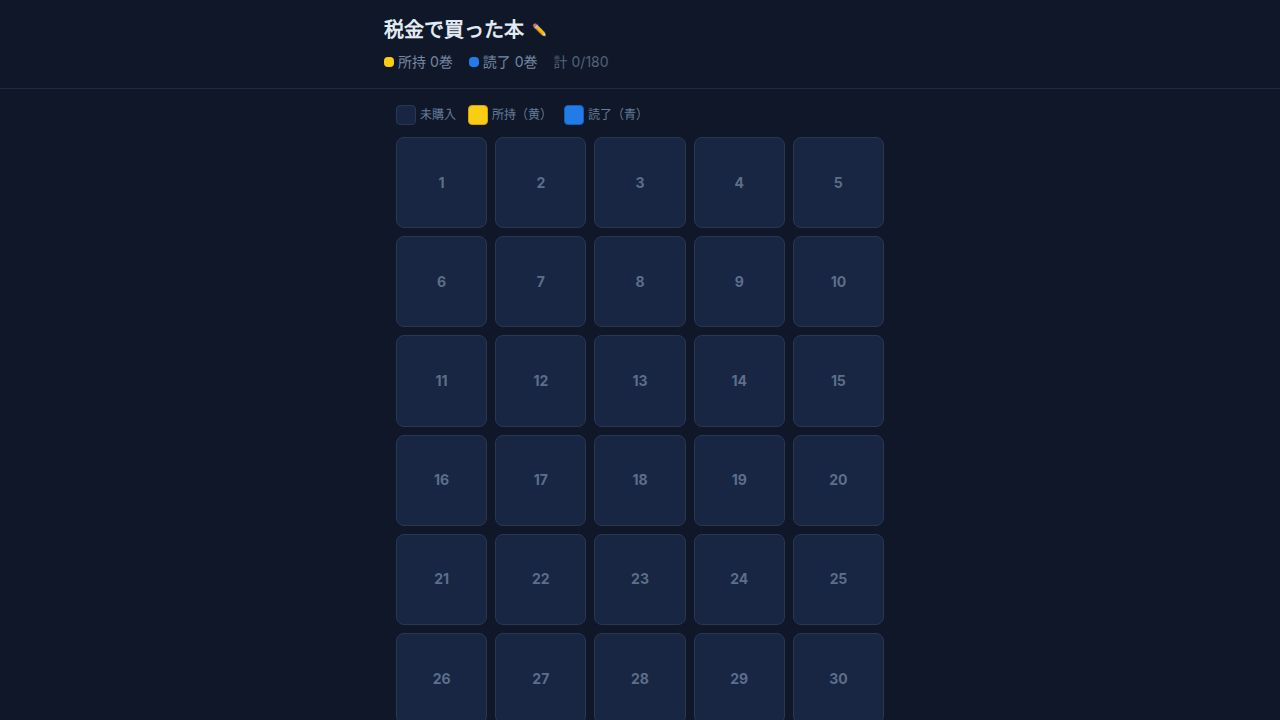
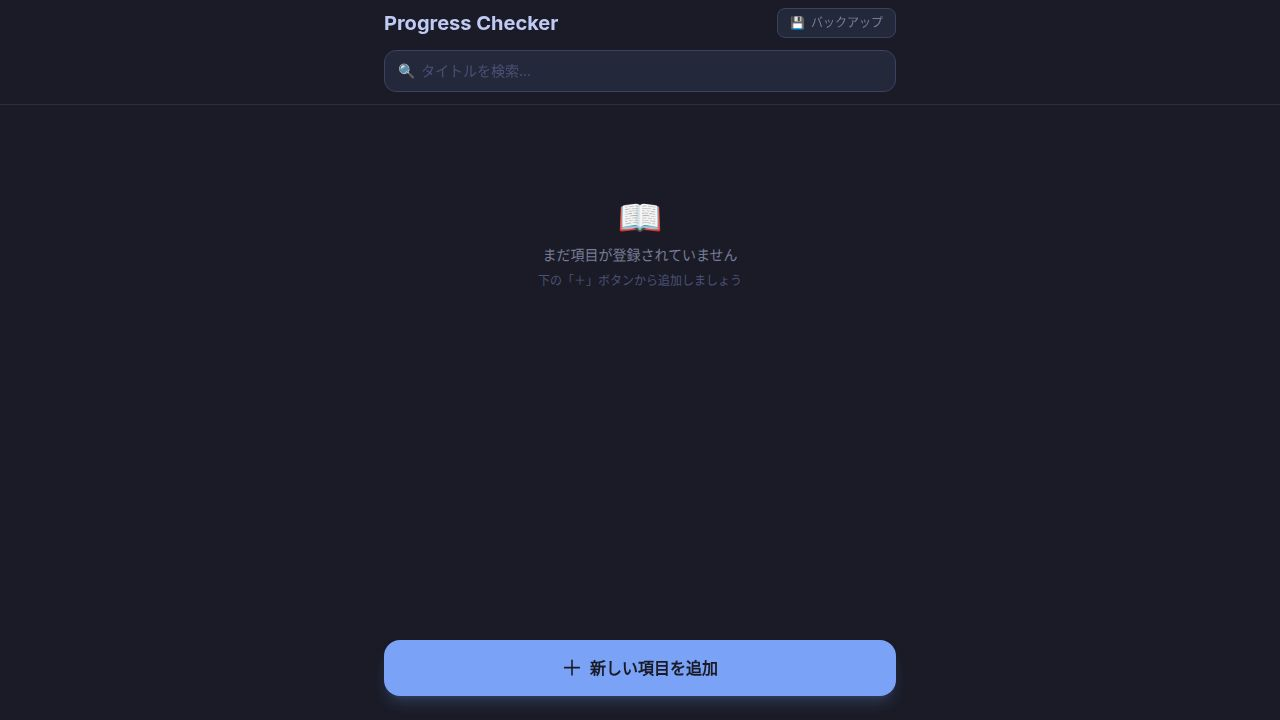
Update manga tracker to simplify status and add range selection
Refactor manga tracking application to simplify volume status to "unread" and "read", remove "owned" status, and implement a range selection feature for marking volumes as read.

Replit-Commit-Author: Agent
Replit-Commit-Session-Id: dbbe59f4-6b20-4298-98bf-2ba8faedf371
Replit-Commit-Checkpoint-Type: full_checkpoint
Replit-Commit-Event-Id: 9f017820-39bd-4600-9e94-0a3ea64abbfd
Replit-Commit-Screenshot-Url: https://storage.googleapis.com/screenshot-production-us-central1/d5e394ac-e234-4fb5-aaf6-e200e951cbe7/dbbe59f4-6b20-4298-98bf-2ba8faedf371/Z3GYm3b
Replit-Helium-Checkpoint-Created: true

Changed region(s): [[0.2812, 0.0, 0.7188, 1.0], [0.5938, 0.0, 0.6875, 0.0611]]

diff --git a/artifacts/manga-tracker/src/components/DetailScreen.tsx b/artifacts/manga-tracker/src/components/DetailScreen.tsx
@@ -3,12 +3,6 @@ import type { MangaEntry, VolumeStatus } from "../types";
 import { calcProgress } from "../storage";
 import AddMangaModal from "./AddMangaModal";
 
-const STATUS_CYCLE: Record<VolumeStatus, VolumeStatus> = {
-  unowned: "owned",
-  owned: "read",
-  read: "unowned",
-};
-
 interface Props {
   entry: MangaEntry;
   onBack: () => void;
@@ -20,19 +14,43 @@ interface Props {
 export default function DetailScreen({ entry, onBack, onVolumeChange, onEdit, onDelete }: Props) {
   const [showEdit, setShowEdit] = useState(false);
   const [showMenu, setShowMenu] = useState(false);
-  const { owned, read, percent } = calcProgress(entry);
+  const [rangeStart, setRangeStart] = useState("");
+  const [rangeEnd, setRangeEnd] = useState("");
+  const [rangeError, setRangeError] = useState("");
+
+  const { read, percent } = calcProgress(entry);
 
   function handleVolumeClick(vol: number) {
     const current: VolumeStatus = entry.statuses[vol] ?? "unowned";
-    const next = STATUS_CYCLE[current];
+    const next: VolumeStatus = current === "read" ? "unowned" : "read";
     onVolumeChange(vol, next);
   }
 
-  function handleMarkAllRead() {
-    if (!window.confirm(`1〜${entry.totalVolumes}巻をすべて読了にしますか？`)) return;
-    for (let v = 1; v <= entry.totalVolumes; v++) {
+  function handleRangeRead() {
+    const start = parseInt(rangeStart, 10);
+    const end = parseInt(rangeEnd, 10);
+    if (isNaN(start) || isNaN(end) || start < 1 || end < 1) {
+      setRangeError("正しい数値を入力してください");
+      return;
+    }
+    if (start > end) {
+      setRangeError("開始番号は終了番号以下にしてください");
+      return;
+    }
+    if (end > entry.totalVolumes) {
+      setRangeError(`終了番号は${entry.totalVolumes}以下にしてください`);
+      return;
+    }
+    setRangeError("");
+    for (let v = start; v <= end; v++) {
       onVolumeChange(v, "read");
     }
+    setRangeStart("");
+    setRangeEnd("");
+  }
+
+  function handleRangeKeyDown(e: React.KeyboardEvent) {
+    if (e.key === "Enter") handleRangeRead();
   }
 
   function handleDelete() {
@@ -42,21 +60,16 @@ export default function DetailScreen({ entry, onBack, onVolumeChange, onEdit, on
   }
 
   function getVolumeStyle(status: VolumeStatus): string {
-    switch (status) {
-      case "owned":
-        return "bg-[#e0af68] text-[#1a1b26] border-[#c99a4a] scale-100";
-      case "read":
-        return "bg-[#7aa2f7] text-[#1a1b26] border-[#5a82d7] scale-100";
-      default:
-        return "bg-[#24283b] text-[#4a5177] border-[#3b4261]";
-    }
+    return status === "read"
+      ? "bg-[#7aa2f7] text-[#1a1b26] border-[#5a82d7]"
+      : "bg-[#24283b] text-[#4a5177] border-[#3b4261]";
   }
 
   return (
     <div className="min-h-screen bg-[#1a1b26] flex flex-col">
       {/* Header */}
       <header className="sticky top-0 z-10 bg-[#1a1b26]/95 backdrop-blur-md border-b border-[#2a2d3e] px-4 py-3">
-        <div className="max-w-lg mx-auto">
+        <div className="max-w-lg mx-auto relative">
           <div className="flex items-center gap-3">
             <button
               onClick={onBack}
@@ -89,13 +102,7 @@ export default function DetailScreen({ entry, onBack, onVolumeChange, onEdit, on
           {showMenu && (
             <>
               <div className="fixed inset-0 z-10" onClick={() => setShowMenu(false)} />
-              <div className="absolute right-4 top-14 z-20 bg-[#1f2335] border border-[#3b4261] rounded-xl shadow-xl min-w-[160px] overflow-hidden">
-                <button
-                  onClick={handleMarkAllRead}
-                  className="w-full px-4 py-3 text-left text-sm text-[#9ece6a] hover:bg-[#24283b] transition-colors border-b border-[#3b4261]"
-                >
-                  ✅ 全巻を読了にする
-                </button>
+              <div className="absolute right-0 top-12 z-20 bg-[#1f2335] border border-[#3b4261] rounded-xl shadow-xl min-w-[160px] overflow-hidden">
                 <button
                   onClick={handleDelete}
                   className="w-full px-4 py-3 text-left text-sm text-[#f7768e] hover:bg-[#24283b] transition-colors"
@@ -114,14 +121,10 @@ export default function DetailScreen({ entry, onBack, onVolumeChange, onEdit, on
           <div className="flex items-center justify-between mb-2">
             <div className="flex gap-4 text-xs text-[#787c99]">
               <span>
-                <span className="inline-block w-2 h-2 rounded-sm bg-[#e0af68] mr-1"></span>
-                所持 {owned}巻
-              </span>
-              <span>
                 <span className="inline-block w-2 h-2 rounded-sm bg-[#7aa2f7] mr-1"></span>
-                読了 {read}巻
+                読了 {read}
               </span>
-              <span className="text-[#4a5177]">/ {entry.totalVolumes}巻</span>
+              <span className="text-[#4a5177]">/ {entry.totalVolumes}</span>
             </div>
             <span className="text-xs font-bold text-[#7aa2f7]">{percent}%</span>
           </div>
@@ -135,15 +138,11 @@ export default function DetailScreen({ entry, onBack, onVolumeChange, onEdit, on
       </div>
 
       {/* Legend */}
-      <div className="px-4 max-w-lg mx-auto w-full">
+      <div className="px-4 max-w-lg mx-auto w-full mb-1">
         <div className="flex gap-4 text-xs text-[#787c99]">
           <span className="flex items-center gap-1.5">
             <span className="inline-block w-5 h-5 rounded border border-[#3b4261] bg-[#24283b]"></span>
-            未購入
-          </span>
-          <span className="flex items-center gap-1.5">
-            <span className="inline-block w-5 h-5 rounded border border-[#c99a4a] bg-[#e0af68]"></span>
-            所持
+            未読
           </span>
           <span className="flex items-center gap-1.5">
             <span className="inline-block w-5 h-5 rounded border border-[#5a82d7] bg-[#7aa2f7]"></span>
@@ -153,7 +152,7 @@ export default function DetailScreen({ entry, onBack, onVolumeChange, onEdit, on
       </div>
 
       {/* Grid */}
-      <main className="flex-1 px-3 py-3 max-w-lg mx-auto w-full pb-24">
+      <main className="flex-1 px-3 py-2 max-w-lg mx-auto w-full pb-40">
         <div className="grid gap-2" style={{ gridTemplateColumns: "repeat(5, 1fr)" }}>
           {Array.from({ length: entry.totalVolumes }, (_, i) => i + 1).map((vol) => {
             const status: VolumeStatus = entry.statuses[vol] ?? "unowned";
@@ -167,7 +166,7 @@ export default function DetailScreen({ entry, onBack, onVolumeChange, onEdit, on
                   active:scale-90 transition-all duration-150
                   ${getVolumeStyle(status)}
                 `}
-                aria-label={`${vol}巻`}
+                aria-label={`${vol}`}
               >
                 {vol}
               </button>
@@ -176,16 +175,44 @@ export default function DetailScreen({ entry, onBack, onVolumeChange, onEdit, on
         </div>
       </main>
 
-      {/* Bottom action */}
-      <div className="fixed bottom-0 left-0 right-0 px-4 pb-6 pt-3 bg-gradient-to-t from-[#1a1b26] via-[#1a1b26]/90 to-transparent">
+      {/* Bottom: Range read */}
+      <div className="fixed bottom-0 left-0 right-0 px-4 pb-6 pt-3 bg-gradient-to-t from-[#1a1b26] via-[#1a1b26]/95 to-transparent">
         <div className="max-w-lg mx-auto">
-          <button
-            onClick={handleMarkAllRead}
-            className="w-full bg-[#9ece6a]/20 border border-[#9ece6a]/40 text-[#9ece6a] font-bold py-3.5 rounded-2xl text-sm active:scale-[0.98] transition-transform flex items-center justify-center gap-2"
-          >
-            <span>✅</span>
-            <span>1〜{entry.totalVolumes}巻まで一括で読了にする</span>
-          </button>
+          <div className="bg-[#24283b] border border-[#3b4261] rounded-2xl px-4 py-3">
+            <p className="text-xs text-[#787c99] mb-2.5">範囲指定で読了にする</p>
+            <div className="flex items-center gap-2">
+              <input
+                type="number"
+                value={rangeStart}
+                onChange={(e) => { setRangeStart(e.target.value); setRangeError(""); }}
+                onKeyDown={handleRangeKeyDown}
+                placeholder="開始"
+                min={1}
+                max={entry.totalVolumes}
+                className="w-0 flex-1 bg-[#1a1b26] text-[#c0caf5] border border-[#3b4261] rounded-xl px-3 py-2.5 text-sm outline-none focus:border-[#7aa2f7] transition-colors text-center placeholder-[#4a5177]"
+              />
+              <span className="text-[#787c99] text-sm shrink-0">〜</span>
+              <input
+                type="number"
+                value={rangeEnd}
+                onChange={(e) => { setRangeEnd(e.target.value); setRangeError(""); }}
+                onKeyDown={handleRangeKeyDown}
+                placeholder="終了"
+                min={1}
+                max={entry.totalVolumes}
+                className="w-0 flex-1 bg-[#1a1b26] text-[#c0caf5] border border-[#3b4261] rounded-xl px-3 py-2.5 text-sm outline-none focus:border-[#7aa2f7] transition-colors text-center placeholder-[#4a5177]"
+              />
+              <button
+                onClick={handleRangeRead}
+                className="shrink-0 bg-[#7aa2f7] text-[#1a1b26] font-bold px-4 py-2.5 rounded-xl text-sm active:scale-95 transition-transform"
+              >
+                読了
+              </button>
+            </div>
+            {rangeError && (
+              <p className="text-xs text-[#f7768e] mt-1.5">{rangeError}</p>
+            )}
+          </div>
         </div>
       </div>
 

diff --git a/artifacts/manga-tracker/src/components/HomeScreen.tsx b/artifacts/manga-tracker/src/components/HomeScreen.tsx
@@ -26,7 +26,7 @@ export default function HomeScreen({ entries, onSelect, onAdd, onImport }: Props
       <header className="sticky top-0 z-10 bg-[#1a1b26]/95 backdrop-blur-md border-b border-[#2a2d3e] px-4 pt-2 pb-3">
         <div className="max-w-lg mx-auto">
           <div className="flex items-center justify-between mb-3">
-            <h1 className="text-xl font-bold text-[#c0caf5]">📚 マイ漫画</h1>
+            <h1 className="text-xl font-bold text-[#c0caf5]">Progress Checker</h1>
             <button
               onClick={() => setShowBackup(true)}
               className="flex items-center gap-1.5 text-xs text-[#787c99] hover:text-[#c0caf5] transition-colors bg-[#24283b] px-3 py-1.5 rounded-lg border border-[#3b4261] active:scale-95"
@@ -64,7 +64,7 @@ export default function HomeScreen({ entries, onSelect, onAdd, onImport }: Props
             ) : (
               <div className="space-y-2">
                 <p className="text-4xl">📖</p>
-                <p className="text-[#787c99] text-sm">まだ漫画が登録されていません</p>
+                <p className="text-[#787c99] text-sm">まだ項目が登録されていません</p>
                 <p className="text-[#4a5177] text-xs">下の「＋」ボタンから追加しましょう</p>
               </div>
             )}
@@ -72,7 +72,7 @@ export default function HomeScreen({ entries, onSelect, onAdd, onImport }: Props
         ) : (
           <div className="space-y-2">
             {filtered.map((entry) => {
-              const { owned, read, total, percent } = calcProgress(entry);
+              const { read, percent } = calcProgress(entry);
               return (
                 <button
                   key={entry.id}
@@ -92,14 +92,10 @@ export default function HomeScreen({ entries, onSelect, onAdd, onImport }: Props
                   </div>
                   <div className="flex items-center gap-3 text-xs text-[#787c99]">
                     <span>
-                      <span className="inline-block w-2 h-2 rounded-sm bg-[#e0af68] mr-1"></span>
-                      所持 {owned}
-                    </span>
-                    <span>
                       <span className="inline-block w-2 h-2 rounded-sm bg-[#7aa2f7] mr-1"></span>
                       読了 {read}
                     </span>
-                    <span className="text-[#4a5177]">/ {entry.totalVolumes}巻</span>
+                    <span className="text-[#4a5177]">/ {entry.totalVolumes}</span>
                   </div>
                 </button>
               );
@@ -116,7 +112,7 @@ export default function HomeScreen({ entries, onSelect, onAdd, onImport }: Props
             className="w-full bg-[#7aa2f7] text-[#1a1b26] font-bold py-4 rounded-2xl text-base shadow-lg shadow-[#7aa2f7]/20 active:scale-[0.98] transition-transform flex items-center justify-center gap-2"
           >
             <span className="text-xl leading-none">＋</span>
-            <span>新しく漫画を追加</span>
+            <span>新しい項目を追加</span>
           </button>
         </div>
       </div>

diff --git a/artifacts/manga-tracker/src/components/AddMangaModal.tsx b/artifacts/manga-tracker/src/components/AddMangaModal.tsx
@@ -25,8 +25,8 @@ export default function AddMangaModal({ mode, entry, onClose, onSave }: Props) {
       return;
     }
     const vol = parseInt(totalVolumes, 10);
-    if (isNaN(vol) || vol < 1 || vol > 500) {
-      setError("巻数は1〜500の間で入力してください");
+    if (isNaN(vol) || vol < 1 || vol > 9999) {
+      setError("最大数は1〜9999の間で入力してください");
       return;
     }
     onSave(trimmed, vol);
@@ -45,7 +45,7 @@ export default function AddMangaModal({ mode, entry, onClose, onSave }: Props) {
       <div className="absolute inset-0 bg-black/60 backdrop-blur-sm animate-fade-in" onClick={onClose} />
       <div className="relative w-full max-w-sm bg-[#1f2335] border border-[#3b4261] rounded-t-2xl sm:rounded-2xl p-6 shadow-2xl animate-slide-up">
         <h2 className="text-lg font-bold text-[#c0caf5] mb-5">
-          {mode === "add" ? "漫画を追加" : "漫画を編集"}
+          {mode === "add" ? "項目を追加" : "項目を編集"}
         </h2>
 
         <div className="space-y-4">
@@ -61,14 +61,14 @@ export default function AddMangaModal({ mode, entry, onClose, onSave }: Props) {
             />
           </div>
           <div>
-            <label className="block text-xs text-[#787c99] mb-1">最大巻数</label>
+            <label className="block text-xs text-[#787c99] mb-1">最大数</label>
             <input
               type="number"
               value={totalVolumes}
               onChange={(e) => { setTotalVolumes(e.target.value); setError(""); }}
               onKeyDown={handleKeyDown}
               min={1}
-              max={500}
+              max={9999}
               className="w-full bg-[#24283b] text-[#c0caf5] border border-[#3b4261] rounded-xl px-4 py-3 text-sm outline-none focus:border-[#7aa2f7] transition-colors"
             />
           </div>

diff --git a/artifacts/manga-tracker/src/storage.ts b/artifacts/manga-tracker/src/storage.ts
@@ -44,16 +44,12 @@ export function updateMangaVolume(
 }
 
 export function calcProgress(entry: MangaEntry): {
-  owned: number;
   read: number;
-  total: number;
   percent: number;
 } {
-  const owned = Object.values(entry.statuses).filter((s) => s === "owned").length;
   const read = Object.values(entry.statuses).filter((s) => s === "read").length;
-  const total = owned + read;
   const percent = entry.totalVolumes > 0 ? Math.round((read / entry.totalVolumes) * 100) : 0;
-  return { owned, read, total, percent };
+  return { read, percent };
 }
 
 export function exportAllToJson(entries: MangaEntry[]): string {

diff --git a/artifacts/manga-tracker/src/types.ts b/artifacts/manga-tracker/src/types.ts
@@ -1,4 +1,4 @@
-export type VolumeStatus = "unowned" | "owned" | "read";
+export type VolumeStatus = "unowned" | "read";
 
 export interface MangaEntry {
   id: string;
